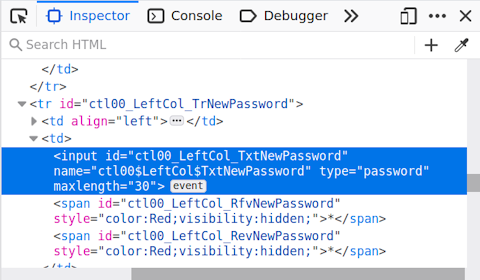
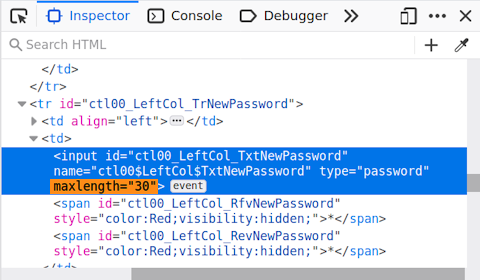
Clarify UWA (Pheme) maxlength (#327)

Changed region(s): [[0.0938, 0.6286, 0.3438, 0.7143]]

diff --git a/README.rst b/README.rst
@@ -1699,11 +1699,17 @@ Passwords:
    "the user's account name or parts of the user's full name
    that exceed two consecutive characters".
 
-Also **passwords are silently truncated to 30 characters**
-(need to inspect element to see this).
-No warning. No error message.
+**New passwords are silently truncated to 30 characters.**
+Inspecting the change password input field
+reveals a ``maxlength="30"`` attribute,
+but this isn't obvious to the average user because
+the field isn't physically wide enough to see the truncation.
+There is no warning or error message.
+
 If you subsequently try to login with the untruncated password,
-it doesn't work.
+it doesn't work because the password input field on the *login* page
+*doesn't* have a ``maxlength="30"`` attribute
+(and neither does the input field for Outlook email).
 
 Passwords must be changed every 6 months.
 
